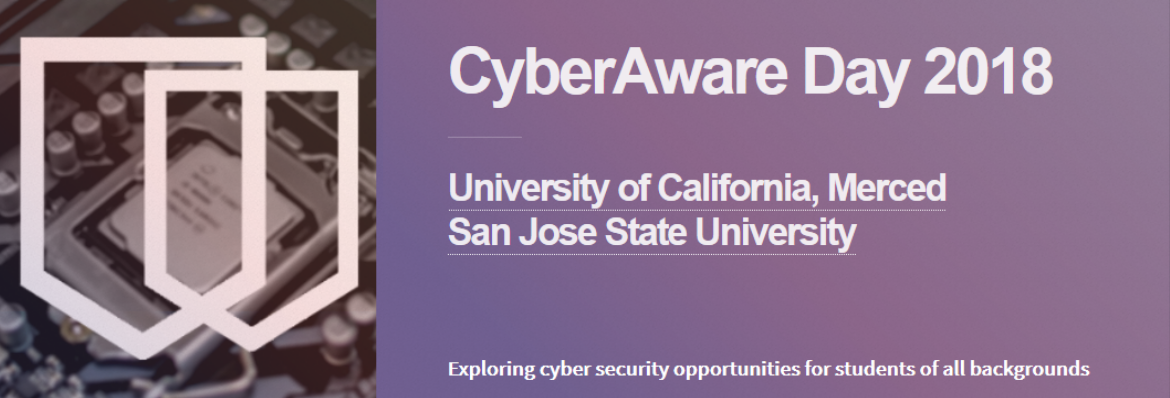
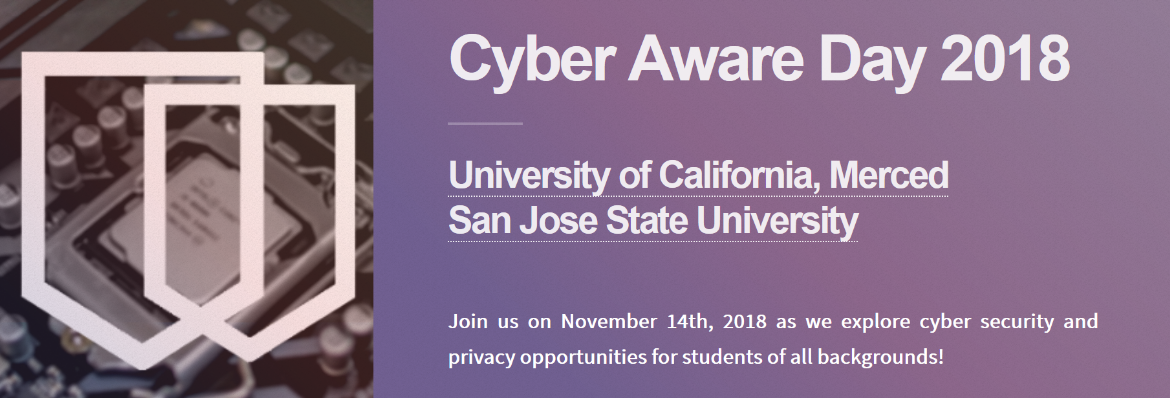
Correcting event name, current employees

diff --git a/people.html b/people.html
@@ -77,8 +77,7 @@
                                     <h2 id="leadership">Leadership & Staff</h3>
                                     <div style="display:inline-block;width:15.4em;height:200px;"><img class="image featured" src="images/people/josh-viers.jpg" alt="" /><center><h3>Josh Viers</h3><p>Director</p></center></div>
                                     <div style="display:inline-block;width:15.4em;height:200px;"><img class="image featured" src="images/people/stefano-foresti.jpg" alt="" /><center><h3>Stefano Foresti</h3><p>Assistant Director</p></center></div>
-                                    <div style="display:inline-block;width:15.4em;height:200px;"><img class="image featured" src="images/people/vanessa-azevedo.jpg" alt="" /><center><h3>Vanessa Azevedo</h3><p>Research Administrator</p></center></div>                                  
-                                    <div style="display:inline-block;width:15.4em;height:200px;"><img class="image featured" src="images/people/bizet-rodriguez.jpg" alt="" /><center><h3>Karen Anderson</h3><p>Program Administrator</p></center></div>
+                                    <div style="display:inline-block;width:15.4em;height:200px;"><img class="image featured" src="images/people/vanessa-azevedo.jpg" alt="" /><center><h3>Vanessa Azevedo</h3><p>Research Administrator</p></center></div> 
                                     <div style="display:inline-block;width:15.4em;height:200px;"><img class="image featured" src="images/people/bizet-rodriguez.jpg" alt="" /><center><h3>Andre Frise</h3><p>Program Assistant</p></center></div>
                                     <br/><br/>
                                     <hr>

diff --git a/upcoming-events/cyberaware-day-2018.html b/upcoming-events/cyberaware-day-2018.html
@@ -1,13 +1,13 @@
 <!-- News Article -->
 <section class="box features">
   <header>
-    <h2>CyberAware Day 2018</h2>
+    <h2>Cyber Aware Day 2018</h2>
   </header>
 
   <img class="image featured" src="images/events/cyberaware-day-2018.png" alt="" />
   <p>
-
-    CyberAware Day is a unique event hosted in partnership between UC Merced and San Jose State University to raise awareness
+    November 14th, 2018
+    Cyber Aware Day is a unique event hosted in partnership between UC Merced and San Jose State University to raise awareness
     around the cyber security sector and related opportunities for students of all backgrounds. Join an awesome line-up of
     speakers and industry experts who know first-hand that everybody belongs in security and hear their stories of how they
     found their way to cyber security. You’ll have an opportunity to also interact directly with like-minded companies who

diff --git a/people/student-employees/kyle-danh.html b/people/student-employees/kyle-danh.html
@@ -1,0 +1,8 @@
+
+    <div style="display:inline-block;width:15.4em;height:200px;">
+        <img class="image featured" src="images/people/shawn-liang.jpg" alt="" />
+        <center>
+            <h3>Kyle Danh</h3>
+            <p>Graphics and Design Intern</p>
+        </center>
+    </div>
